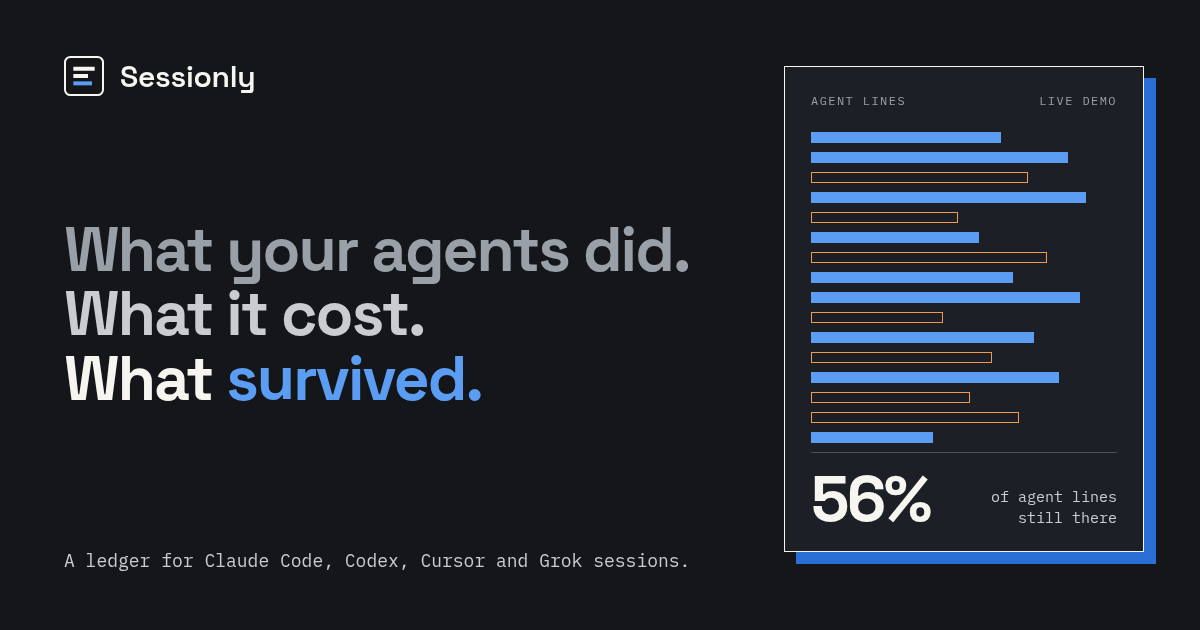
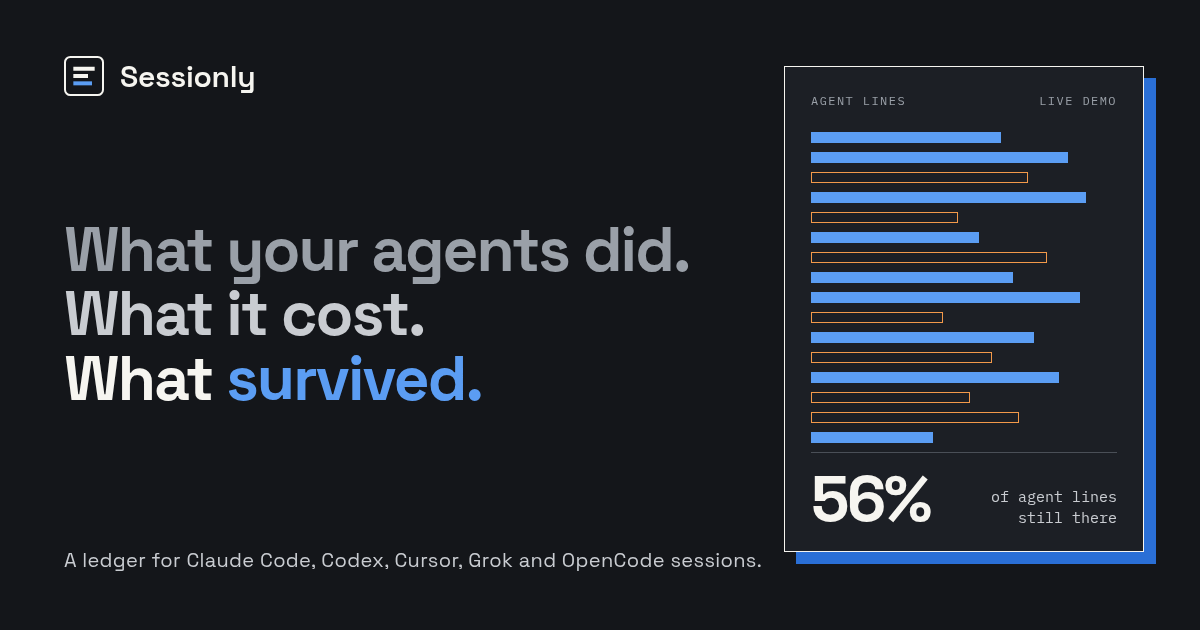
The website records OpenCode with the other agents
Sessions on a machine include OpenCode, read from its database. The cloud
section and the 25 November demo figures stay as they were.

Changed region(s): [[0.0617, 0.8746, 0.6475, 0.9048]]

diff --git a/website/index.html b/website/index.html
@@ -6,7 +6,7 @@
     <title>Sessionly: a ledger of AI coding agent sessions</title>
     <meta
       name="description"
-      content="What your coding agents were asked, which tools ran, which files changed, what it cost and how much of it survived. For Claude Code, Codex, Cursor and Grok, side by side. Open source; runs on your machine."
+      content="What your coding agents were asked, which tools ran, which files changed, what it cost and how much of it survived. For Claude Code, Codex, Cursor, Grok and OpenCode, side by side. Open source; runs on your machine."
     />
     <meta name="color-scheme" content="light dark" />
     <meta name="theme-color" content="#14161a" media="(prefers-color-scheme: light)" />
@@ -24,7 +24,7 @@
     <meta property="og:title" content="Sessionly: a ledger of AI coding agent sessions" />
     <meta
       property="og:description"
-      content="What your coding agents did, what it cost, and how much of it survived. Claude Code, Codex, Cursor and Grok in one ledger, on your machine first."
+      content="What your coding agents did, what it cost, and how much of it survived. Claude Code, Codex, Cursor, Grok and OpenCode in one ledger, on your machine first."
     />
     <meta property="og:url" content="https://sessionly.dev/" />
     <meta property="og:type" content="website" />
@@ -34,13 +34,13 @@
     <meta property="og:image:height" content="630" />
     <meta
       property="og:image:alt"
-      content="Sessionly: what your agents did, what it cost, what survived. A ledger for Claude Code, Codex, Cursor and Grok sessions."
+      content="Sessionly: what your agents did, what it cost, what survived. A ledger for Claude Code, Codex, Cursor, Grok and OpenCode sessions."
     />
     <meta name="twitter:card" content="summary_large_image" />
     <meta name="twitter:title" content="Sessionly: a ledger of AI coding agent sessions" />
     <meta
       name="twitter:description"
-      content="What your coding agents did, what it cost, and how much of it survived. Claude Code, Codex, Cursor and Grok in one ledger, on your machine first."
+      content="What your coding agents did, what it cost, and how much of it survived. Claude Code, Codex, Cursor, Grok and OpenCode in one ledger, on your machine first."
     />
     <meta name="twitter:image" content="https://www.sessionly.dev/og.png" />
     <script defer src="/_vercel/insights/script.js"></script>
@@ -103,7 +103,7 @@
               <span>What <em>survived.</em></span>
             </h1>
             <p class="lede">
-              Sessionly records every Claude Code, Codex, Cursor and Grok session: what was asked,
+              Sessionly records every Claude Code, Codex, Cursor, Grok and OpenCode session: what was asked,
               which tools ran, which files changed and what it cost. Then it counts how many of the
               agent's lines are still in the file later, and still in the pull request after
               review.
@@ -243,10 +243,10 @@
               </p>
             </div>
             <div>
-              <h3>Four agents, one record</h3>
+              <h3>Five agents, one record</h3>
               <p>
-                Claude Code, Codex, Cursor and Grok sessions sit in the same ledger, so a row means
-                the same thing whichever agent produced it.
+                Claude Code, Codex, Cursor, Grok and OpenCode sessions sit in the same ledger, so a
+                row means the same thing whichever agent produced it.
               </p>
             </div>
             <div>
@@ -272,8 +272,8 @@
             <div class="cell">
               <h3>Every agent, one way</h3>
               <p>
-                Claude Code, Codex, Cursor and Grok, on a machine or in the cloud, mapped to the
-                same tool names and the same session record.
+                Claude Code, Codex, Cursor, Grok and OpenCode on a machine, and Claude Code, Cursor
+                and Codex in the cloud, mapped to the same tool names and the same session record.
               </p>
             </div>
             <div class="cell">
@@ -310,14 +310,15 @@
                 <h3>Capture</h3>
                 <p>
                   A hook appends each agent event to a local file in 2–4 ms. It only observes:
-                  it cannot block or change a session.
+                  it cannot block or change a session. OpenCode is read from its database; a
+                  plugin only notes that a session happened.
                 </p>
               </li>
               <li>
                 <h3>Read</h3>
                 <p>
                   Tokens, models and cost come from the transcripts and session files the agents
-                  keep themselves.
+                  keep, and from OpenCode's database.
                 </p>
               </li>
               <li>
@@ -365,7 +366,7 @@
             </div>
           </div>
           <p class="flow">
-            agent → hook and transcripts → sessionly → ~/.sessionly, then, if connected, upload →
+            agents → hooks, their files, OpenCode's database → sessionly → ~/.sessionly, then, if connected, upload →
             Sessionly server → team dashboard
           </p>
           <p class="note">
@@ -416,8 +417,8 @@
               <h3>Past sessions</h3>
               <p>
                 <code>sessionly import</code> rebuilds sessions from the files the agents still
-                keep, so the ledger does not start empty. On one machine, 100 sessions in 2.5 GB
-                of transcripts took about a minute.
+                keep, and from OpenCode's database, so the ledger does not start empty. On one
+                machine, 100 sessions in 2.5 GB of transcripts took about a minute.
               </p>
             </div>
             <div class="cell">
@@ -501,14 +502,14 @@
       <section id="agents">
         <div class="wrap">
           <p class="eyebrow">Agents</p>
-          <h2>Claude Code, Codex, Cursor and Grok, side by side.</h2>
+          <h2>Claude Code, Codex, Cursor, Grok and OpenCode, side by side.</h2>
           <p class="lede">
             Each agent's tools are mapped to common names (Read, Edit, Write, Bash, Grep, Glob),
             and each agent's sessions are read from where that agent keeps them. Where an agent
             does not record something, Sessionly says so instead of filling it in.
           </p>
           <div class="table-wrap sheet">
-            <table class="cmp">
+            <table class="cmp wide">
               <thead>
                 <tr>
                   <th scope="col"></th>
@@ -516,6 +517,7 @@
                   <th scope="col">Codex</th>
                   <th scope="col">Cursor</th>
                   <th scope="col">Grok</th>
+                  <th scope="col">OpenCode</th>
                 </tr>
               </thead>
               <tbody>
@@ -525,9 +527,11 @@
                   <td>Its rollout files, plus its own hooks once you approve them in Codex</td>
                   <td>Its transcript files, plus the hooks, which Cursor also runs</td>
                   <td>Its session files, plus the hooks, which Grok also runs</td>
+                  <td>Its database, plus a plugin that notes a session so the next sync imports it</td>
                 </tr>
                 <tr>
                   <th scope="row">Prompts, tool calls, files and lines changed</th>
+                  <td>Yes</td>
                   <td>Yes</td>
                   <td>Yes</td>
                   <td>Yes</td>
@@ -539,6 +543,7 @@
                   <td>Yes</td>
                   <td>Yes</td>
                   <td>Yes</td>
+                  <td>Yes</td>
                 </tr>
                 <tr>
                   <th scope="row">Review runs</th>
@@ -546,6 +551,10 @@
                   <td>Its <code>/review</code>, with the reviewer's cost and its exact findings</td>
                   <td>A command typed as a prompt: when, and for which pull request</td>
                   <td>A command typed as a prompt; <code>/review</code> also with its reviewer's cost and time</td>
+                  <td>
+                    Its <code>/review</code>, kept as the command name. Arguments typed after it
+                    are not kept
+                  </td>
                 </tr>
                 <tr>
                   <th scope="row">Model and tokens</th>
@@ -553,6 +562,7 @@
                   <td>Per model response</td>
                   <td>Per turn, for turns the hooks saw</td>
                   <td>Yes</td>
+                  <td>Per step of a reply</td>
                 </tr>
                 <tr>
                   <th scope="row">Cost</th>
@@ -565,9 +575,11 @@
                     An estimate at API list prices for turns the hooks saw. Not what Cursor bills
                   </td>
                   <td>Grok's own figure</td>
+                  <td>OpenCode's own figure, and an estimate when that is 0</td>
                 </tr>
                 <tr>
                   <th scope="row">Rewrite rate</th>
+                  <td>Yes</td>
                   <td>Yes</td>
                   <td>Yes</td>
                   <td>Yes</td>
@@ -577,10 +589,12 @@
             </table>
           </div>
           <p class="note">
-            Checked with Codex 0.169.0, the Cursor editor 3.27 and Grok 1.0.77. Codex records
-            tokens but no cost, so its cost is an estimate from those tokens. Codex's editor
-            extension and its subagents are read but not checked yet, and Cursor's command-line
-            agent is not read yet. No agent's sign-in files are opened.
+            Checked with Codex 0.169.0, the Cursor editor 3.27 and Grok 1.0.77. OpenCode's record
+            is taken from OpenCode 1.19.6. Its database is opened read-only. A session has no
+            permission prompts and no branch, and the desktop app and <code>opencode github</code>
+            are not read. Codex records tokens but no cost, so its cost is an estimate from those
+            tokens. Codex's editor extension and its subagents are read but not checked yet, and
+            Cursor's command-line agent is not read yet. No agent's sign-in files are opened.
           </p>
         </div>
       </section>
@@ -918,7 +932,10 @@ SESSIONLY_LINE_HASHES=on</pre>
                 <li>The <code>sessionly</code> binary: capture, ledger, rewrite rate, upload</li>
                 <li>Server and team dashboard</li>
                 <li>Pull request attribution and the GitHub Action</li>
-                <li>Claude Code, Codex, Cursor and Grok, on a machine or in the cloud</li>
+                <li>
+                  Claude Code, Codex, Cursor, Grok and OpenCode on a machine, and Claude Code,
+                  Cursor and Codex in the cloud
+                </li>
                 <li>One Docker Compose file to self-host</li>
               </ul>
               <a class="btn primary" href="#start">Get started</a>
@@ -991,6 +1008,13 @@ SESSIONLY_LINE_HASHES=on</pre>
                   <code>codex</code> and accept the hooks it shows, or run <code>/hooks</code>.
                 </li>
                 <li>
+                  <b>OpenCode gets a plugin.</b> When its config directory exists,
+                  <code>sessionly install</code> writes <code>plugins/sessionly.js</code> and does
+                  not edit <code>opencode.json</code>. The plugin notes that a session happened;
+                  the database is the record. A project install does not write it, and uninstall
+                  removes only a plugin Sessionly wrote.
+                </li>
+                <li>
                   <b>Easy to undo.</b> <code>sessionly uninstall</code> takes the hooks out again.
                 </li>
                 <li>
@@ -1007,8 +1031,8 @@ SESSIONLY_LINE_HASHES=on</pre>
 <span class="c">$</span> mv sessionly ~/.local/bin/   <span class="c"># or anywhere on your PATH</span>
 <span class="c"># or, with Rust installed, from crates.io</span>
 <span class="c">$</span> cargo install sessionly
-<span class="c">$</span> sessionly install   <span class="c"># adds the agents' hooks</span>
-<span class="c">$</span> sessionly import    <span class="c"># past sessions of all four agents</span>
+<span class="c">$</span> sessionly install   <span class="c"># the agents' hooks, and OpenCode's plugin</span>
+<span class="c">$</span> sessionly import    <span class="c"># past sessions of all five agents</span>
 <span class="c">$</span> sessionly list
 <span class="c">$</span> sessionly summary --by tool
 <span class="c">$</span> sessionly show &lt;session&gt;</pre>
@@ -1062,7 +1086,8 @@ SESSIONLY_LINE_HASHES=on</pre>
             <h3>Read the numbers for what they are.</h3>
             <p>
               Cost is the agent's own recorded figure where there is one and an estimate from
-              token counts elsewhere, as for Codex, which records none. It is not an invoice. The rewrite rate measures whether
+              token counts elsewhere, as for Codex, which records none. OpenCode's figure is kept
+              when it is not zero, and estimated from its tokens when it is. It is not an invoice. The rewrite rate measures whether
               lines survived, not whether they were good or why they changed. The agent share of
               a pull request is a floor. Names and emails come from git config, or for a cloud
               session from the platform: a label, not a verified identity.
@@ -1101,7 +1126,7 @@ SESSIONLY_LINE_HASHES=on</pre>
           <p>
             A ledger of AI coding agent sessions. Open source under Apache-2.0 and
             <a href="https://docs.sessionly.dev/server.html">self-hosted</a>. Claude Code,
-            Codex, Cursor, Grok and GitHub are trademarks of their owners; Sessionly is not affiliated
+            Codex, Cursor, Grok, OpenCode and GitHub are trademarks of their owners; Sessionly is not affiliated
             with them.
           </p>
           <p>Email <a href="mailto:support@sessionly.dev">support@sessionly.dev</a>.</p>

diff --git a/website/privacy.html b/website/privacy.html
@@ -175,14 +175,14 @@
           <ul>
             <li>
               a random identifier of the machine, which agent ran the session (Claude Code,
-              Cursor, Grok or Codex) and its version, how it was started, the session's
+              Cursor, Grok, Codex or OpenCode) and its version, how it was started, the session's
               identifier, and when it started and ended;
             </li>
             <li>
               the git user name and email address, the repository's remote address and the
               branch name, as set in git on that machine, or, for a session that ran in the cloud, the email address the
               platform gives for the person who started it. They are a label, not a verified
-              identity;
+              identity. An OpenCode session has no branch, and no record of how it was started;
             </li>
             <li>
               counts and timings: prompts and how long each turn took, tool calls with the tool's
@@ -567,7 +567,7 @@
           <h2>Other Sites and Services</h2>
           <p>
             Sessionly reads sessions recorded by coding agents made by third parties (Claude Code,
-            Codex, Cursor, Grok) and its Action runs on GitHub. The website links to GitHub, where the
+            Codex, Cursor, Grok and OpenCode) and its Action runs on GitHub. The website links to GitHub, where the
             code is published. These links and integrations are not an endorsement of, or a
             representation that I am affiliated with, any third party. I do not control those
             services and am not responsible for their actions. Please read their privacy policies.
@@ -615,7 +615,7 @@
           <p>
             A ledger of AI coding agent sessions. Open source under Apache-2.0 and
             <a href="https://docs.sessionly.dev/server.html">self-hosted</a>. Claude Code,
-            Cursor, Grok, Codex and GitHub are trademarks of their owners; Sessionly is not affiliated
+            Cursor, Grok, Codex, OpenCode and GitHub are trademarks of their owners; Sessionly is not affiliated
             with them.
           </p>
           <p>Email <a href="mailto:support@sessionly.dev">support@sessionly.dev</a>.</p>

diff --git a/website/terms.html b/website/terms.html
@@ -155,7 +155,7 @@
           <h3>1.1 What Sessionly is</h3>
           <p>
             Sessionly is a ledger of AI coding agent sessions. A program on a developer's machine
-            records what coding agents such as Claude Code, Cursor, Grok and Codex were asked, which tools
+            records what coding agents such as Claude Code, Cursor, Grok, Codex and OpenCode were asked, which tools
             they ran, which files they changed and what it cost, and measures how much of what they
             wrote is still there later. It can upload a record of each session to a Sessionly
             server, which shows the same figures for a team. The Hosted Service is my installation
@@ -477,7 +477,7 @@
             &ldquo;Sessionly&rdquo; and the Sessionly logo may not be used in connection with your
             or any third-party products or services without permission, except to say truthfully
             that you use or are compatible with Sessionly. Claude Code, Cursor, Grok, Codex,
-            GitHub and other product names are trademarks of their owners. Sessionly is not
+            OpenCode, GitHub and other product names are trademarks of their owners. Sessionly is not
             affiliated with, endorsed by or sponsored by any of them.
           </p>
           <h3>9.3 Feedback</h3>
@@ -762,7 +762,7 @@
           <p>
             A ledger of AI coding agent sessions. Open source under Apache-2.0 and
             <a href="https://docs.sessionly.dev/server.html">self-hosted</a>. Claude Code,
-            Cursor, Grok, Codex and GitHub are trademarks of their owners; Sessionly is not affiliated
+            Cursor, Grok, Codex, OpenCode and GitHub are trademarks of their owners; Sessionly is not affiliated
             with them.
           </p>
           <p>Email <a href="mailto:support@sessionly.dev">support@sessionly.dev</a>.</p>

diff --git a/website/security.html b/website/security.html
@@ -80,7 +80,7 @@
               </li>
               <li>
                 The capture hook only observes. It cannot block or change an agent's session, and
-                it never opens the sign-in files of Cursor, Grok or Codex.
+                it never opens the sign-in files of Cursor, Grok, Codex or OpenCode.
               </li>
               <li>
                 Access to a server is by token. Tokens are stored as SHA-256 hashes; a member reads
@@ -177,7 +177,11 @@
           <h3>Other agents' files</h3>
           <p>
             Sessions from Cursor, Grok and Codex are read from the transcript, session and
-            rollout files those agents keep. Their sign-in files are never opened.
+            rollout files those agents keep. OpenCode's sessions are read from its database,
+            opened read-only. Account and credential tables in that database are not read, and
+            <code>opencode.json</code> is not edited: install writes a plugin file,
+            <code>plugins/sessionly.js</code>, when OpenCode's config directory already exists.
+            Sign-in files are never opened.
           </p>
 
           <h2>What leaves the machine</h2>
@@ -514,7 +518,7 @@
           <p>
             A ledger of AI coding agent sessions. Open source under Apache-2.0 and
             <a href="https://docs.sessionly.dev/server.html">self-hosted</a>. Claude Code,
-            Cursor, Grok, Codex and GitHub are trademarks of their owners; Sessionly is not affiliated
+            Cursor, Grok, Codex, OpenCode and GitHub are trademarks of their owners; Sessionly is not affiliated
             with them.
           </p>
           <p>Email <a href="mailto:support@sessionly.dev">support@sessionly.dev</a>.</p>

diff --git a/website/dpa.html b/website/dpa.html
@@ -951,7 +951,7 @@
           <p>
             A ledger of AI coding agent sessions. Open source under Apache-2.0 and
             <a href="https://docs.sessionly.dev/server.html">self-hosted</a>. Claude Code,
-            Cursor, Grok, Codex and GitHub are trademarks of their owners; Sessionly is not affiliated
+            Cursor, Grok, Codex, OpenCode and GitHub are trademarks of their owners; Sessionly is not affiliated
             with them.
           </p>
           <p>Email <a href="mailto:support@sessionly.dev">support@sessionly.dev</a>.</p>

diff --git a/website/site.css b/website/site.css
@@ -565,6 +565,9 @@ tbody tr:last-child > * {
 .cmp {
   min-width: 860px;
 }
+.cmp.wide {
+  min-width: 1080px;
+}
 .cmp thead th {
   font-size: 17px;
 }
